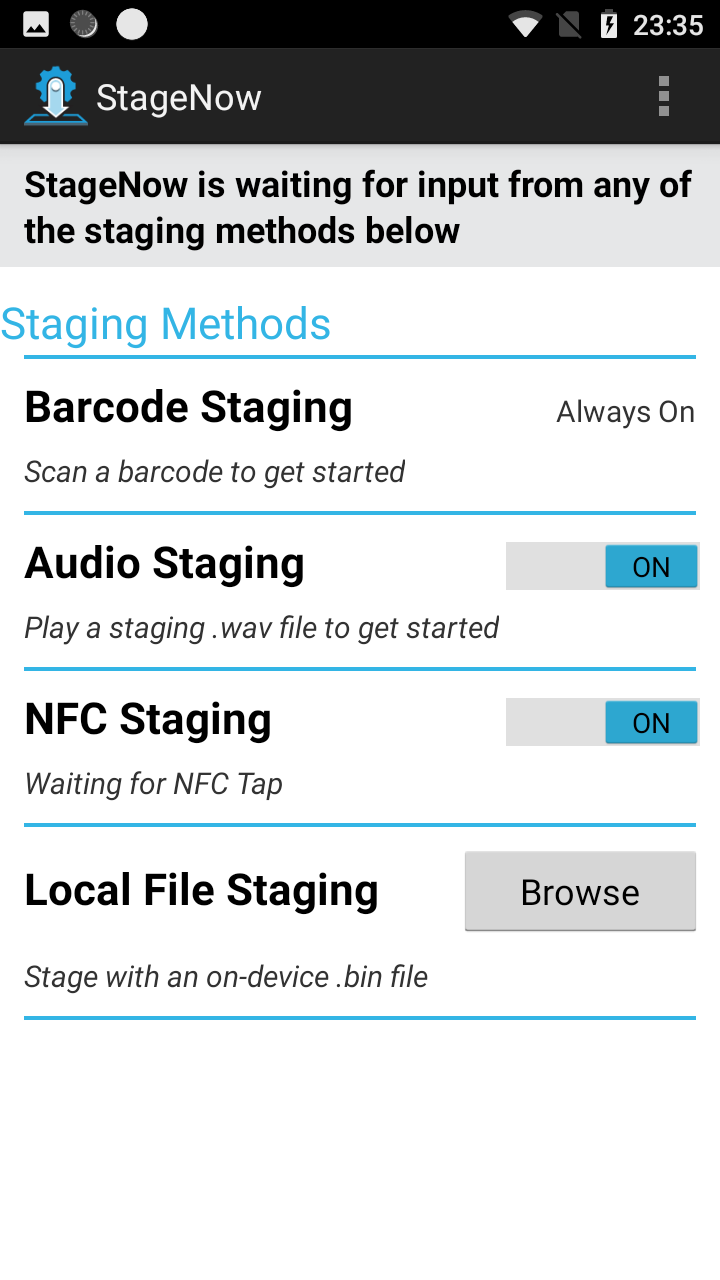
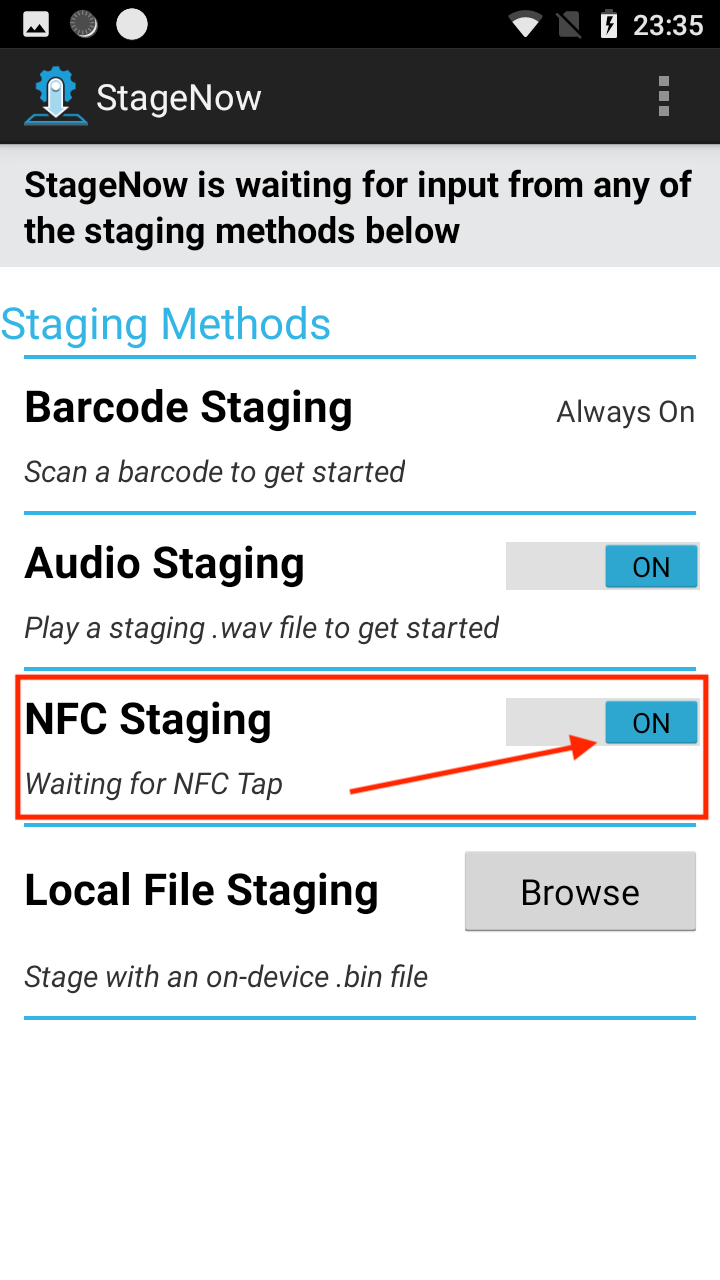
[TUT-32314] SN 3.4 NFC Staging guide update

Changed region(s): [[0.0, 0.5312, 1.0, 0.6562], [0.0306, 0.5, 0.9778, 0.5312], [0.7028, 0.5625, 0.825, 0.5938]]

diff --git a/src/stagenow/3-4/stageclient/index.md b/src/stagenow/3-4/stageclient/index.md
@@ -135,7 +135,7 @@ If errors occur during deployment, the following pop-up appears. Select Yes to v
 
 To set up for NFC staging, the StageNow Workstation tool is used to create a `.bin` file that contains the staging instructions. The file is written to an NFC tag using the StageNow Writer app for Android. Once created, the NFC tag can then be read by the StageNow Client app running on an Android device equipped with an NFC reader. 
 
-**Note**: The `.bin` file also can be used to stage from a USB drive or SD card for devices that are not NFC-equipped. [Learn more](../stagingprofiles/#usbandsdcardprofilestaging). 
+**Note**: The `.bin` file used for NFC staging also can be used to stage from a USB drive or SD card on devices that are not NFC-equipped. [Learn more](../stagingprofiles/#usbandsdcardprofilestaging). 
 
 #### Requirements
 * **To perform NFC staging**: 
@@ -153,9 +153,9 @@ The current version of StageNow supports the following NFC tag specifications:
  * TI Tag-it TI2048
  * NXP ICode SLIX
 * ISO 14443:
- * Mifare Classic 4K
+ * MIFARE Classic 4K
 * ISO/IEC 18092:
- * Felica RCS965
+ * FeliCa RC-S965
 
 
 <!-- 
@@ -167,30 +167,30 @@ NFC staging Image2.png
 NFC staging Image9.PNG
  -->
 
-**To create an NFC tag**: 
+####To create an NFC tag: 
 
-1. Copy the `.bin` file to the root of the internal SD card on an NFC-equipped device.<br>
-  The NFC `.bin` file is called "clockset" in the sample screen below: 
+1. **Copy the** `.bin` **file to the root of the internal SD card** on an NFC-equipped device:<br>
     <img alt="image" style="height:350px" src="../images/NFC staging Image3.png"/>
-2. In the StageNow NFC Writer app on the device, navigate to and tap the `.bin` file copied in Step 1.<br>
+  _The sample `.bin` file is called "clockset" in the example above_.<br>  
+2. In the StageNow NFC Writer app on the device, **navigate to and tap the** `.bin` **file** copied in Step 1.<br>
   A screen similar to the image below appears (the "clockset" sample file is shown):
-    <img alt="image" style="height:350px" src="../images/NFC staging Image4.png"/>
-3. When the app displays a prompt to “Approach Tag,” move the device so it's touching the tag to be written.<br>
-  Writing begins automatically and sometimes displays a percentage of completion (depending on tag format):
-    <img alt="image" style="height:350px" src="../images/NFC staging Image5.png"/>
-5. When writing is complete, the "Tag written successfully" prompt appears: 
-    <img alt="image" style="height:350px" src="../images/NFC staging Image6.png"/>
-6. If the size of bin file exceeds available tag storage, a failure message is displayed:
+    <img alt="image" style="height:350px" src="../images/NFC staging Image4.png"/><br>
+3. When the app displays the “Approach Tag” prompt, **touch the device to the target tag**.<br>
+  Writing begins automatically, sometimes displaying a percentage of completion (depending on tag format):
+    <img alt="image" style="height:350px" src="../images/NFC staging Image5.png"/><br>
+5. **Writing is complete when "Tag written successfully" appears**: 
+    <img alt="image" style="height:350px" src="../images/NFC staging Image6.png"/><br>
+6. If the size of `.bin` file exceeds available tag storage or another error occurs, a failure message is displayed:
     <img alt="image" style="height:350px" src="../images/NFC staging Image7.png"/>
 
-#### NFC Tag creation is complete. 
+For more information about creating `.bin` files, see the [Staging Profiles guide](../stagingprofiles/#nfcprofilestaging). 
 
-For more information about creating `.bin` files, see [Staging Profiles](../stagingprofiles/#nfcprofilestaging). 
+-----
 
+#### To stage a device using an NFC tag:
 
-
-7. Open the StageNow Client on device and make sure that the  NFC Staging switch option is turned on in StageNow Client.
-
+1. On the device to be staged, open the StageNow Client and confirm that NFC Staging is enabled:
+  <img alt="image" style="height:350px" src="../images/NFC staging Image8.png"/>
 
 8. When the tag is fully programmed, place it in range of device running StageNow Client or tap the Tag to the device , you see following screens :
 
